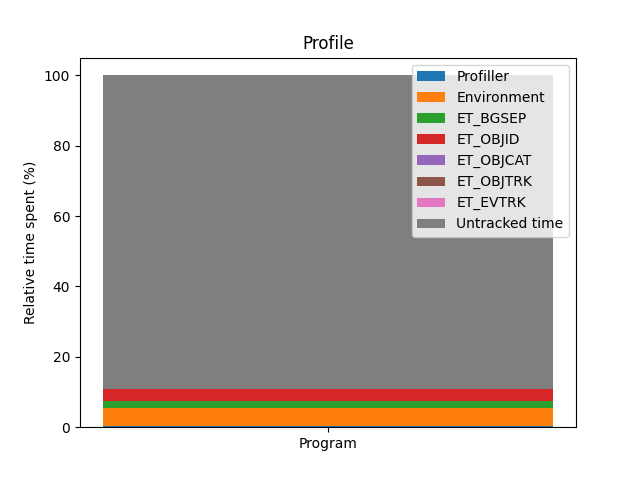
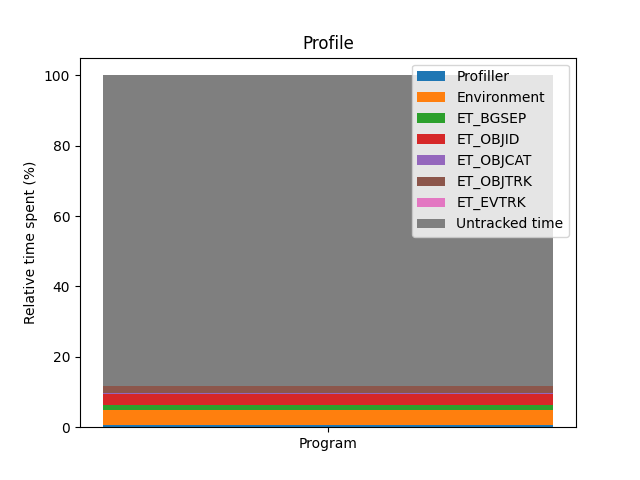
Working

Changed region(s): [[0.1562, 0.7812, 0.875, 0.875]]

diff --git a/pyepisodetracker/episode_tracker.py b/pyepisodetracker/episode_tracker.py
@@ -1,6 +1,12 @@
 import numpy as np
+import copy
 import cv2
+from typing import Dict
 from peasyprofiller.profiller import profiller as pprof
+
+
+CAT_SIZE_TOLERANCE = 1
+SPEED_DIF_TOLERANCE = 4
 
 
 class Vector2():
@@ -10,7 +16,7 @@ class Vector2():
 
 
     def manhat_length(self):
-        return abs(self.x) + abs(self.x)
+        return abs(self.x) + abs(self.y)
 
 
     def __sub__(self, other):
@@ -25,12 +31,19 @@ class Vector2():
         return Vector2(self.x * other, self.y * other)
 
 
-    def __div__(self, other):
+    def __truediv__(self, other):
         return Vector2(self.x / other, self.y / other)
 
     
     def __eq__(self, value: object) -> bool:
         return self.x == value.x and self.y == value.y
+
+
+    def __str__(self) -> str:
+        return f"({self.x},{self.y})"
+
+    def __repr__(self) -> str:
+        return f"({self.x},{self.y})"
 
 
 class Object():
@@ -41,7 +54,8 @@ class Object():
         self.category = None
 
 
-CAT_SIZE_TOLERANCE = 2
+    def __repr__(self) -> str:
+        return f"obj @ {self.position}"
 
 
 class ObjectCategory():
@@ -60,11 +74,8 @@ class ObjectCategory():
         return ObjectCategory(object.size, object.color, np.random.randint(256, size=(3)))
 
 
-
-class ObjectTransition():
-    def __init__(self, object_from: Object | None, object_to: Object | None) -> None:
-        self.object_from = object_from
-        self.object_to = object_to
+    def __repr__(self) -> str:
+        return f"{self.size}"
 
 
 class Event():
@@ -77,17 +88,30 @@ class Event():
 class AppearanceEvent(Event):
     def __init__(self, obj_category: str, current_pos: Vector2) -> None:
         super().__init__(obj_category, "APPEARANCE", current_pos)
+    
+
+    def __repr__(self) -> str:
+        return f"app @ {self.current_pos}"
+
+
+class DisappearanceEvent(Event):
+    def __init__(self, obj_category: str, current_pos: Vector2) -> None:
+        super().__init__(obj_category, "DISAPPEARANCE", current_pos)
+    
+
+    def __repr__(self) -> str:
+        return f"dis @ {self.current_pos}"
 
 
 class MovementEvent(Event):
-    def __init__(self, obj_category: str, initial_pos: Vector2, initial_timestamp: int, current_pos: Vector2):
+    def __init__(self, obj_category: str, initial_pos: Vector2, initial_timestep: int, current_pos: Vector2):
         super().__init__(obj_category, "MOVEMENT", current_pos)
         self.initial_pos = initial_pos
-        self.initial_timestamp = initial_timestamp
+        self.initial_timestep = initial_timestep
 
 
     def get_vel(self, current_timestep: int):
-        return (self.current_pos - self.initial_pos) / float(current_timestep - self.initial_timestamp)
+        return (self.current_pos - self.initial_pos) / float(current_timestep - self.initial_timestep)
 
 
     def get_state(self, current_timestep: int):
@@ -97,10 +121,15 @@ class MovementEvent(Event):
         return self.current_pos, self.get_vel(current_timestep)
 
 
+    def __repr__(self) -> str:
+        return f"{self.initial_pos} -> {self.current_pos}"
+
+
 class EpisodeTracker():
-    def __init__(self, background_colors: np.array) -> None:
+    def __init__(self, background_colors: np.array, headless: bool=False) -> None:
         self.background_colors = background_colors
 
+        self.headless = headless
         self.object_categories: list[ObjectCategory] = []
         self.tracked_objects: list[Object] = []
         self.tracked_events: list[Event] = []
@@ -112,17 +141,29 @@ class EpisodeTracker():
         objs = self.object_identification(separated_bg)
         objs = self.object_categorization(objs)
         transitions = self.object_tracking(objs)
-        events = self.event_tracking(transitions)
+        events = self.event_tracking(objs, transitions)
+
+        self.tracked_objects = objs
+        self.tracked_events = events
 
         self.timestep += 1
 
         # Render mode
 
-        for obj in objs:
-            top_left = obj.position
-            bottom_right = obj.position + obj.size
-            cv2.rectangle(separated_bg, (top_left.x, top_left.y), (bottom_right.x, bottom_right.y), tuple(map(int, obj.category.indicator_color)), 2)
-
+        if not self.headless:
+            for obj in objs:
+                top_left = obj.position
+                bottom_right = obj.position + obj.size
+                cv2.rectangle(separated_bg, (top_left.x, top_left.y), (bottom_right.x, bottom_right.y), tuple(map(int, obj.category.indicator_color)), 2)
+            for obj in transitions:
+                cv2.arrowedLine(separated_bg, (obj.position.x, obj.position.y), (transitions[obj].position.x, transitions[obj].position.y), (255, 255, 255), 2)
+            for event in events:
+                if event.category == "APPEARANCE":
+                    cv2.circle(separated_bg, (event.current_pos.x, event.current_pos.y), 4, (0, 255, 0), 2)
+                elif event.category == "DISAPPEARANCE":
+                    cv2.circle(separated_bg, (event.current_pos.x, event.current_pos.y), 4, (255, 0, 0), 2)
+                else:
+                    cv2.arrowedLine(separated_bg, (event.initial_pos.x, event.initial_pos.y), (event.current_pos.x, event.current_pos.y), (0, 0, 255), 2)
         return separated_bg, objs, transitions, events
 
 
@@ -194,15 +235,106 @@ class EpisodeTracker():
         return data
 
 
-    def object_tracking(self, data: list[Object]) -> list[ObjectTransition]:
+    def get_closest_object(self, pos: Vector2, l: list[Object]) -> Object:
+        best_distance = (l[0].position - pos).manhat_length()
+        best_obj = l[0]
+        
+        for i in range(1, len(l)):
+            new_distance = (l[i].position - pos).manhat_length()
+            if new_distance < best_distance:
+                best_distance = new_distance
+                best_obj = l[i]
+        
+        return best_obj
+
+
+    def put_closest_object(self, expected_positions, object_transitions_base, overfilled_objects, obj, dest_list):
+        if len(dest_list) == 0:
+            return
+
+        closest_object = self.get_closest_object(expected_positions[obj], dest_list)
+        if closest_object in object_transitions_base:
+            if not closest_object in overfilled_objects:
+                overfilled_objects.append(closest_object)
+
+            object_transitions_base[closest_object].append(obj)
+        else:
+            object_transitions_base[closest_object] = [obj]
+
+
+    def object_tracking(self, data: list[Object]) -> Dict[Object, Object]:
         pprof.start("ET_OBJTRK")
 
+        expected_positions = {}
+        for obj in self.tracked_objects:
+            expected_positions[obj] = obj.position
+            if obj in self.tracked_events and self.tracked_events[obj].category == "MOVEMENT":
+                expected_positions[obj] += self.tracked_events[obj].get_vel(self.timestep)
+
+        new_objs = copy.copy(data)
+        object_transitions_base = {} # Dest obj to source objs that considered it closest obj
+        overfilled_objects = []
+        for obj in self.tracked_objects:
+            self.put_closest_object(expected_positions, object_transitions_base, overfilled_objects, obj, new_objs)
+
+        while len(overfilled_objects) > 0:
+            obj = overfilled_objects.pop()
+            closest_dist = (obj.position - object_transitions_base[obj][0].position).manhat_length()
+            closest_obj = object_transitions_base[obj][0]
+            for i in range(1, len(object_transitions_base[obj])):
+                new_dist = (obj.position - object_transitions_base[obj][i].position).manhat_length()
+                if new_dist < closest_dist:
+                    closest_dist = new_dist
+                    closest_obj = object_transitions_base[obj][i]
+            
+            new_objs.remove(obj)
+            for i in range(0, len(object_transitions_base[obj])):
+                if object_transitions_base[obj][i] != closest_obj:
+                    self.put_closest_object(expected_positions, object_transitions_base, overfilled_objects, object_transitions_base[obj][i], new_objs)
+
+            object_transitions_base[obj] = [closest_obj]
+        
+        object_transitions = {}
+        for obj in object_transitions_base:
+            object_transitions[object_transitions_base[obj][0]] = obj
+        
         pprof.stop("ET_OBJTRK")
 
+        return object_transitions
 
-    def event_tracking(self, data: list[ObjectTransition]) -> list[Event]:
+
+    def event_tracking(self, objects: list[Object], transitions: Dict[Object, Object]) -> list[Event]:
         pprof.start("ET_EVTRK")
+
+        events = []
+
+        dests = transitions.values()
+        for obj in objects:
+            if not obj in dests:
+                events.append(AppearanceEvent(obj.category, obj.position))
+        sources = transitions.keys()
+        for obj in self.tracked_objects:
+            if not obj in sources:
+                events.append(DisappearanceEvent(obj.category, obj.position))
+        
+        events_by_pos: Dict[str, Event] = {}
+        for event in self.tracked_events:
+            events_by_pos[str(event.current_pos)] = event
+        for obj in transitions:
+            event = events_by_pos[str(obj.position)]
+            if event.category == "APPEARANCE":
+                events.append(MovementEvent(obj.category, event.current_pos, self.timestep - 1, transitions[obj].position))
+            else:
+                vel = transitions[obj].position - obj.position
+                if (vel - event.get_vel(self.timestep)).manhat_length() < SPEED_DIF_TOLERANCE and vel.manhat_length() != 0:
+                    event.current_pos = transitions[obj].position
+                    events.append(event)
+                else:
+                    events.append(MovementEvent(obj.category, obj.position, self.timestep - 1, transitions[obj].position))
+
         pprof.stop("ET_EVTRK")
+
+        return events
 
     
     def finish_episode(self) -> None:
